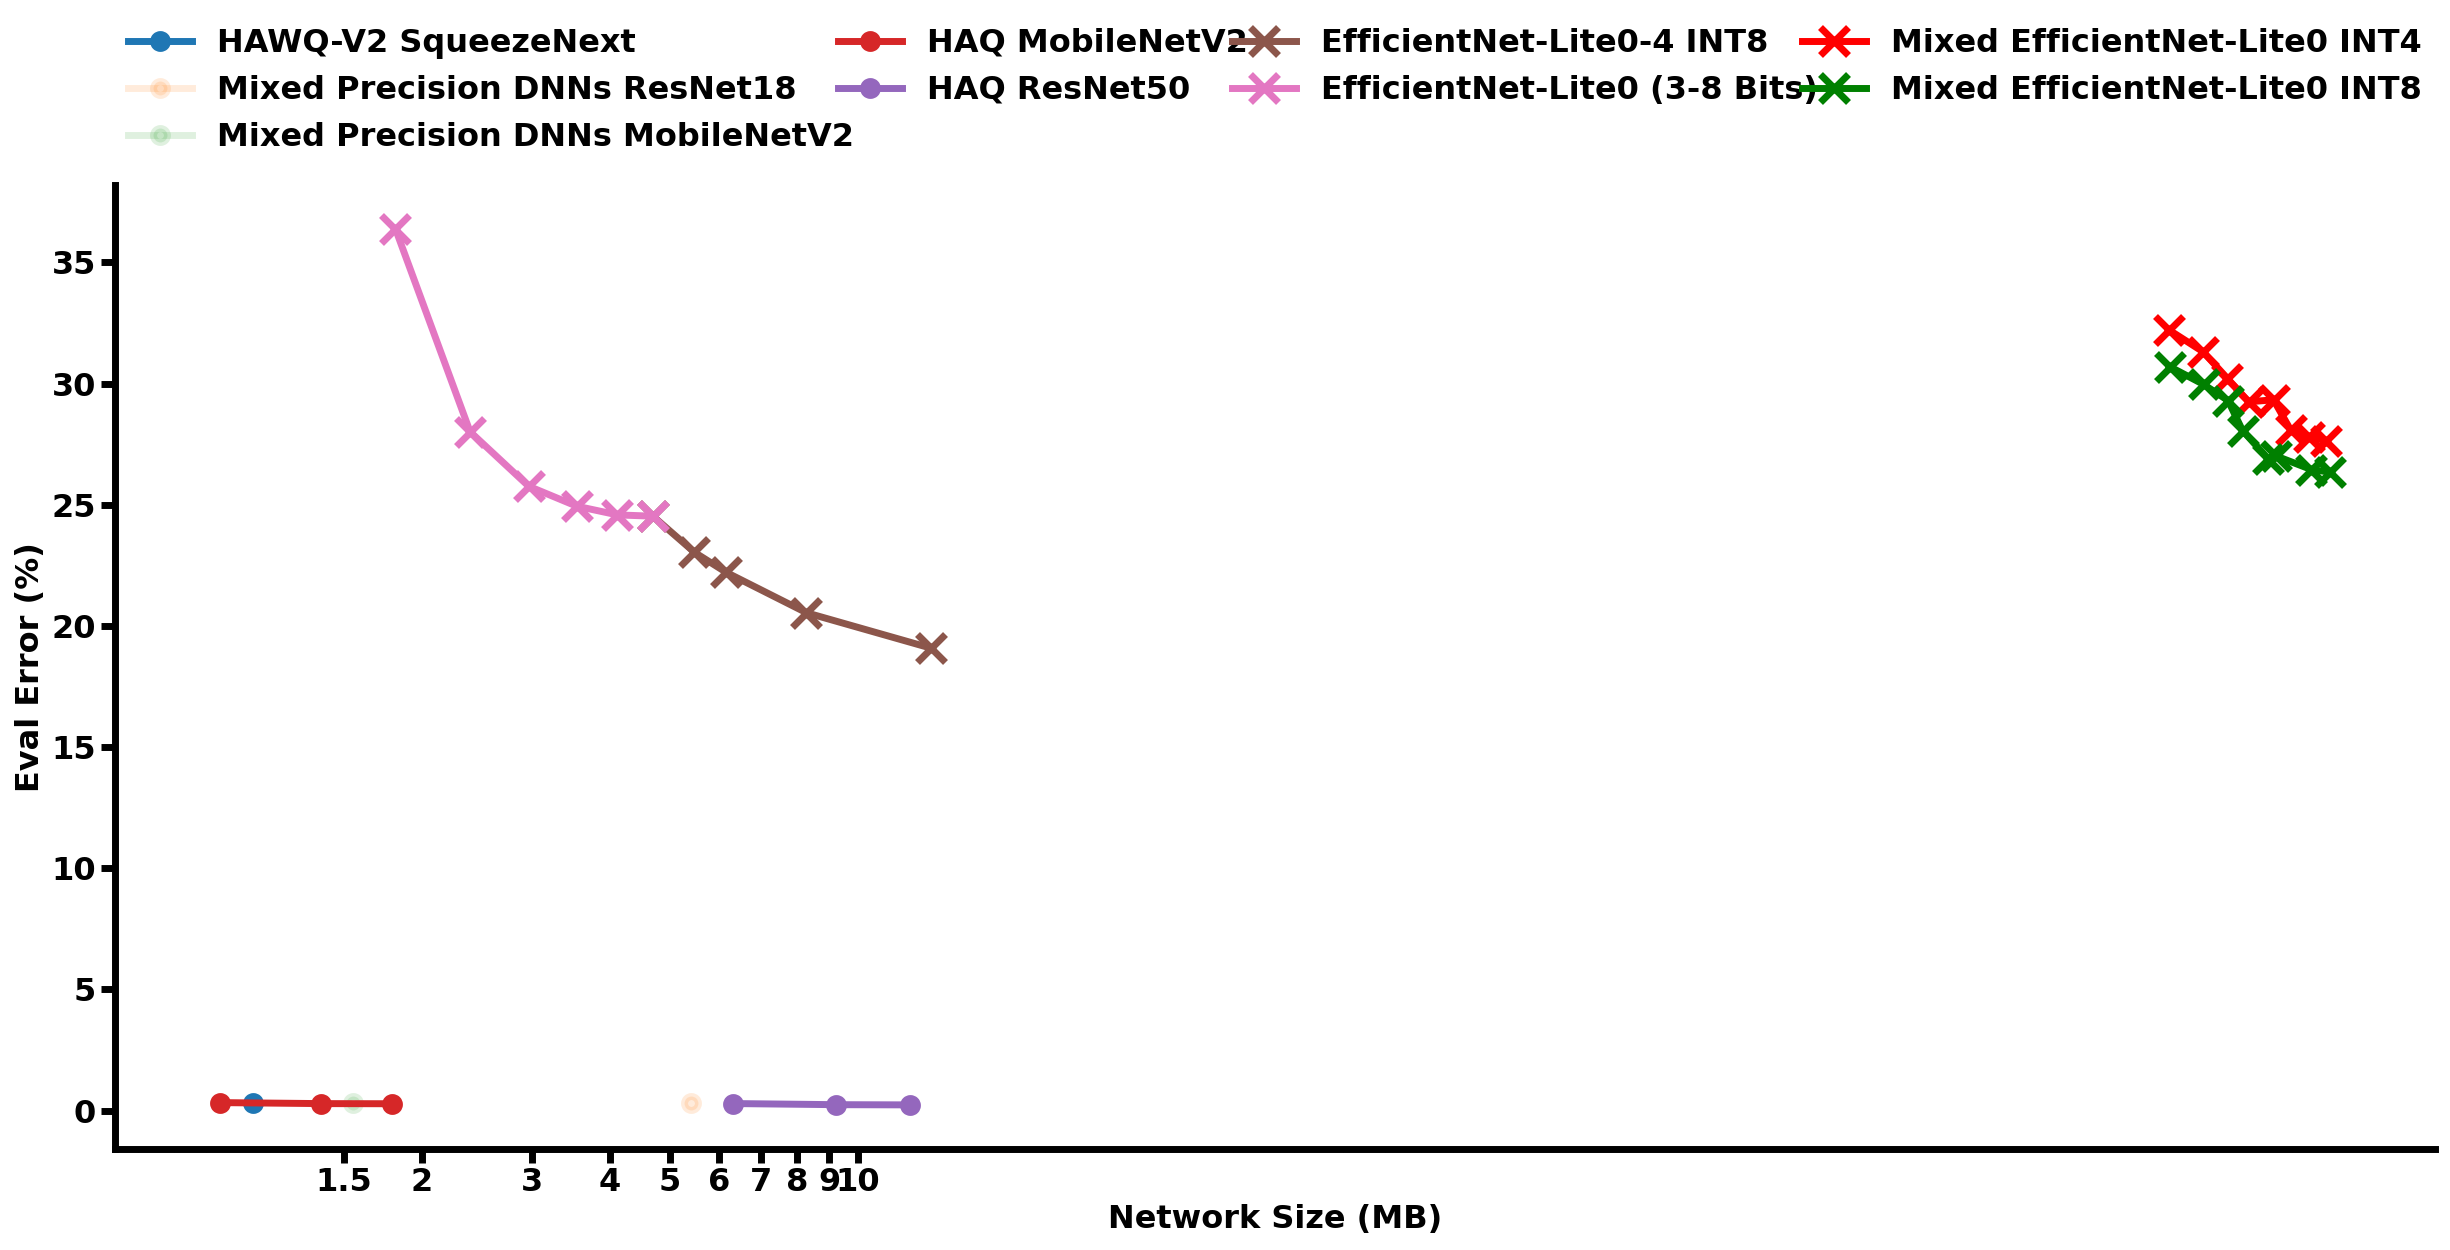
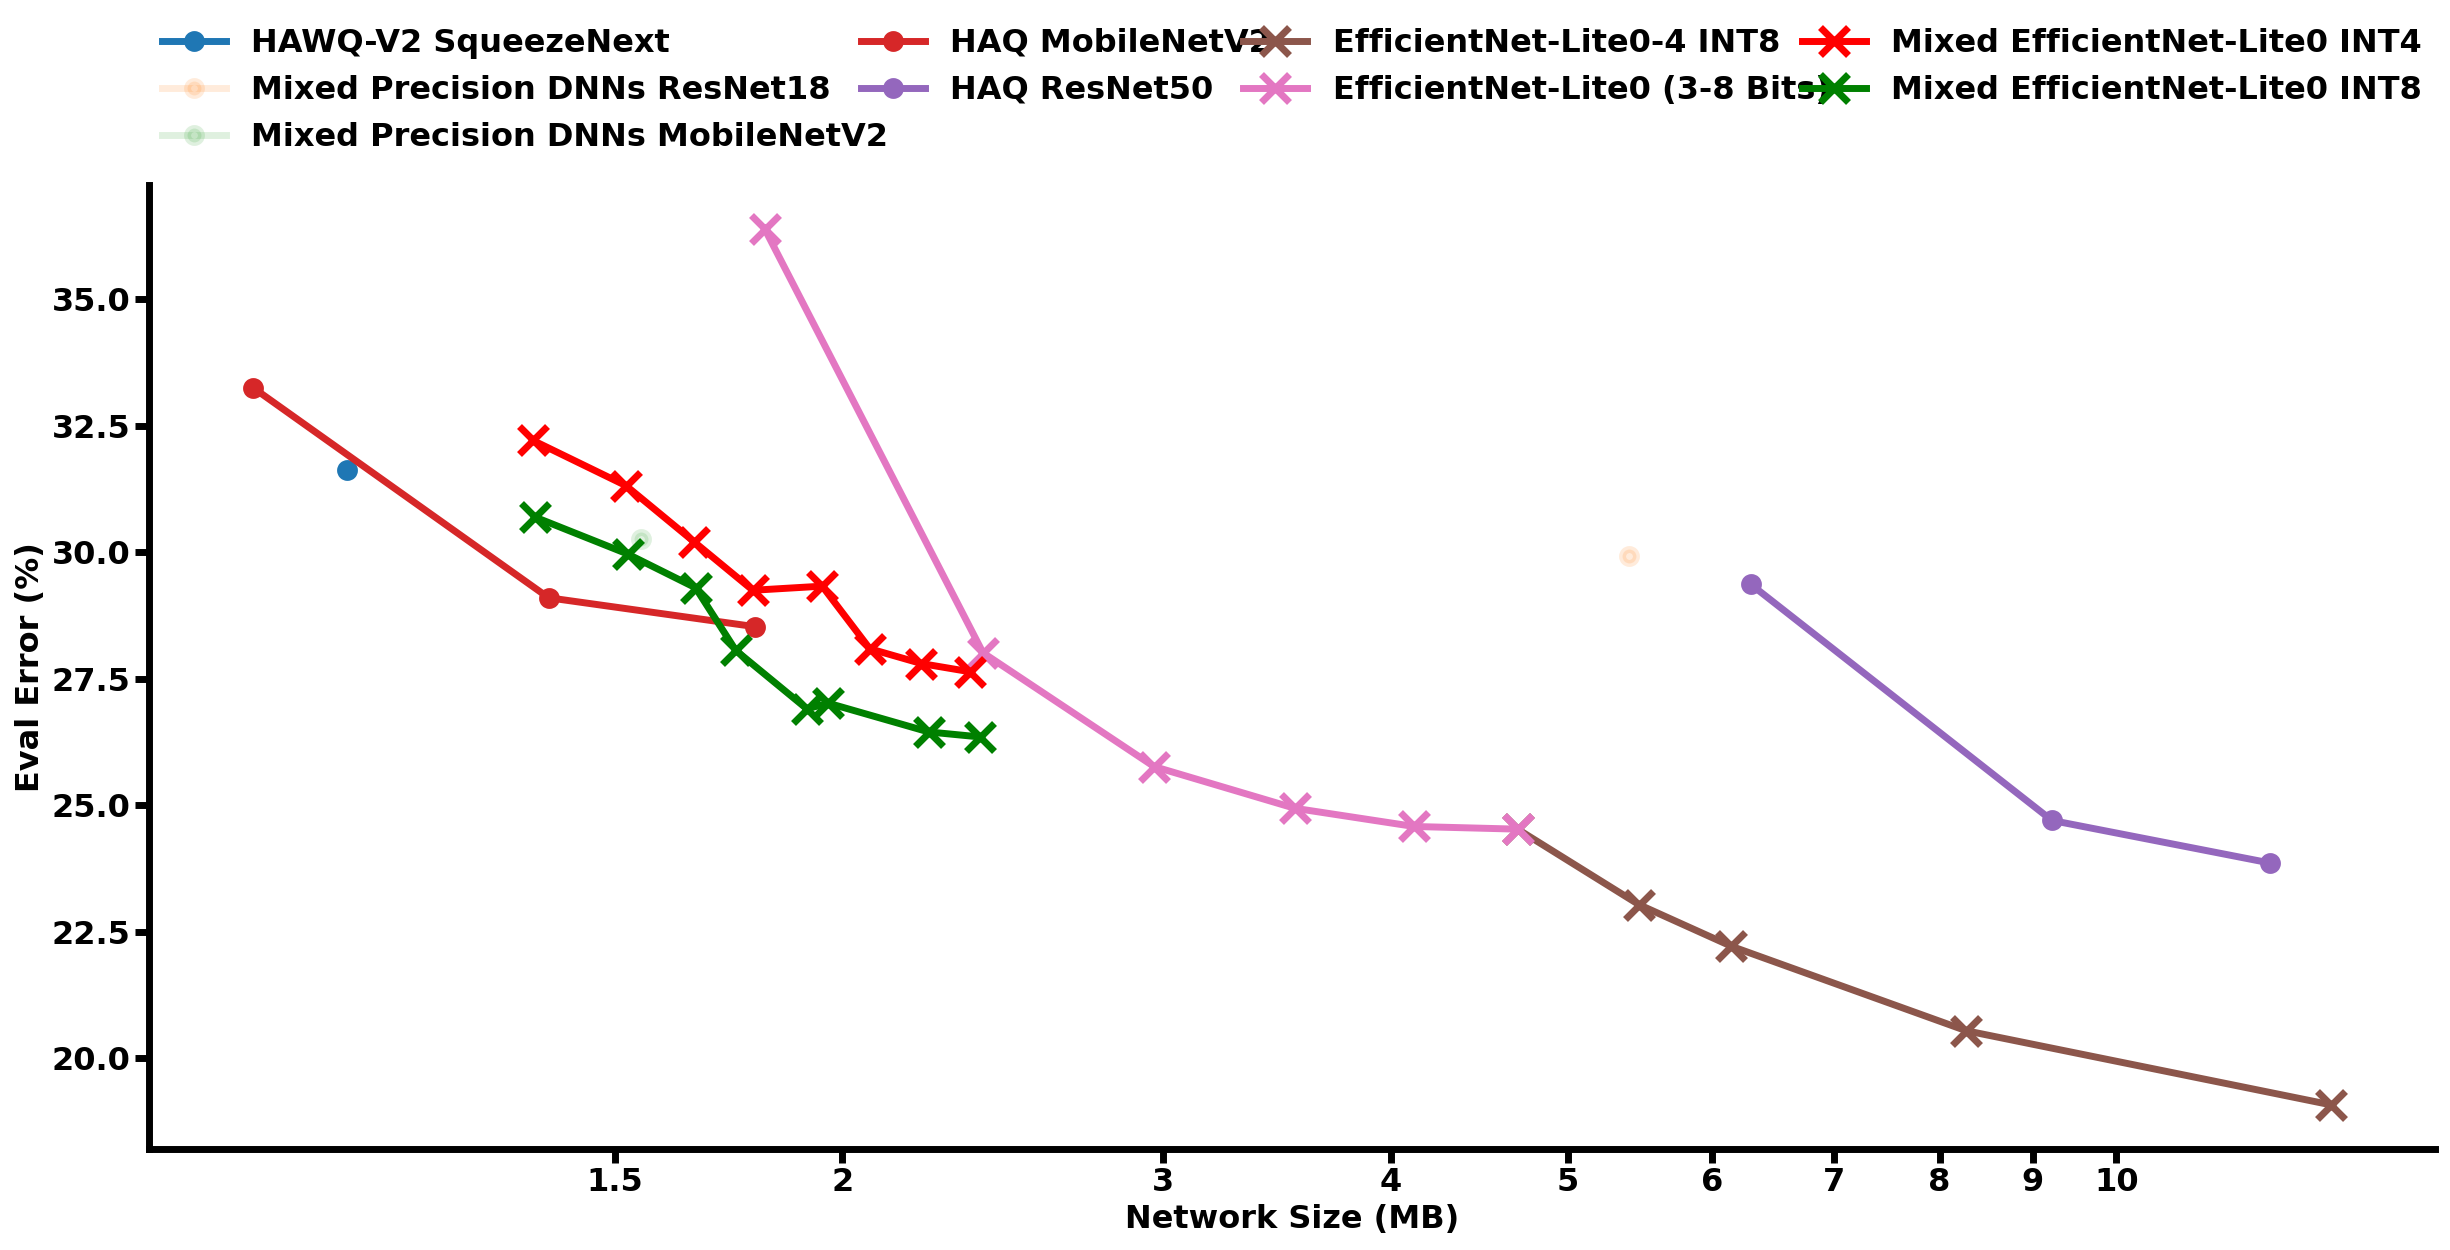
normal - test

diff --git a/examples/efficientnet/visualization.py b/examples/efficientnet/visualization.py
@@ -164,7 +164,7 @@ competitors_bigger_act = {
     'hawqv2_squeeze': {
         # activation bits 8 (uniform)
         # https://arxiv.org/abs/1911.03852
-        'eval_err': [1 - 0.6838],
+        'eval_err': np.array([1 - 0.6838])*100,
         'size_mb': np.array([1.07]),
         'name': 'HAWQ-V2 SqueezeNext',
         'alpha': 1.,
@@ -182,7 +182,7 @@ competitors_bigger_act = {
     'mixed_resnet18': {
         # activation budget 380 KB against
         # https://arxiv.org/abs/1905.11452
-        'eval_err': [0.2992],
+        'eval_err': np.array([0.2992])*100,
         'size_mb': np.array([5.4]),
         'name': 'Mixed Precision DNNs ResNet18',
         'alpha': .15,
@@ -191,7 +191,7 @@ competitors_bigger_act = {
     'mixed_mobilev2': {
         # activation budget 570 KB against
         # https://arxiv.org/abs/1905.11452
-        'eval_err': [0.3026],
+        'eval_err': np.array([0.3026])*100,
         'size_mb': np.array([1.55]),
         'name': 'Mixed Precision DNNs MobileNetV2',
         'alpha': .15,
@@ -200,7 +200,7 @@ competitors_bigger_act = {
     'haq_mobilev2': {
         # not sure what weight budget is ...
         # https://arxiv.org/pdf/1811.08886.pdf
-        'eval_err': [1 - 0.6675, 1 - 0.7090, 1 - 0.7147],
+        'eval_err': np.array([1 - 0.6675, 1 - 0.7090, 1 - 0.7147])*100,
         'size_mb': np.array([.95, 1.38, 1.79]),
         'name': 'HAQ MobileNetV2',
         'alpha': 1.,
@@ -209,7 +209,7 @@ competitors_bigger_act = {
     'haq_resnet50': {
         # not sure what weight budget is ...
         # https://arxiv.org/pdf/1811.08886.pdf
-        'eval_err': [1 - 0.7063, 1 - 0.7530, 1 - 0.7614],
+        'eval_err': np.array([1 - 0.7063, 1 - 0.7530, 1 - 0.7614])*100,
         'size_mb': np.array([6.30, 9.22, 12.14]),
         'name': 'HAQ ResNet50',
         'alpha': 1.,
@@ -524,12 +524,12 @@ def plot_comparison2(name):
 
 
 
-  xv = np.array([1268.692017, 1437.639038, 1574.033081, 1702.221069, 1865.83606, 1986.667114, 2126.347412, 2267.265381]) + 0.16806400 / 2
+  xv = np.array([1268.692017, 1437.639038, 1574.033081, 1702.221069, 1865.83606, 1986.667114, 2126.347412, 2267.265381])/1000 + 0.16806400 / 2
   yv = 100 - np.array([0.6778971553, 0.6868489385, 0.6979166865, 0.7075195313, 0.706705749, 0.719075501, 0.7220051885, 0.7236328125]) * 100
   ax.plot(xv, yv, marker='x', label="Mixed EfficientNet-Lite0 INT4",
           ms=20, markeredgewidth=5, linewidth=5, color='red')
 
-  xv = np.array([1271.812012, 1440.932129, 1577.504028, 1664.144897, 1828.402222, 1880.366089, 2146.508057, 2294.529053]) + 0.16806400 / 2
+  xv = np.array([1271.812012, 1440.932129, 1577.504028, 1664.144897, 1828.402222, 1880.366089, 2146.508057, 2294.529053])/1000 + 0.16806400 / 2
   yv = 100 - np.array([0.693033874, 0.7003580928, 0.70703125, 0.7194010615, 0.7309570313, 0.7298176885, 0.7355143428, 0.7364909053]) * 100
   ax.plot(xv, yv, marker='x', label="Mixed EfficientNet-Lite0 INT8",
           ms=20, markeredgewidth=5, linewidth=5, color='green')
